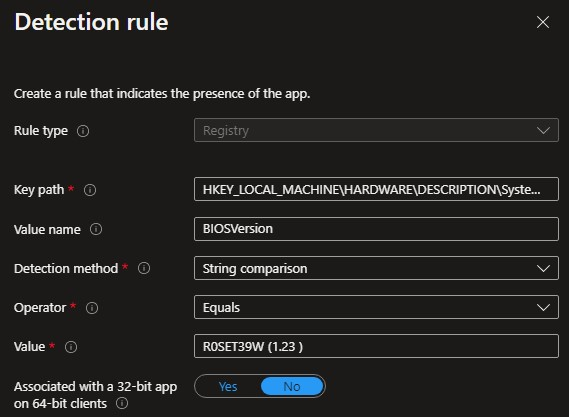
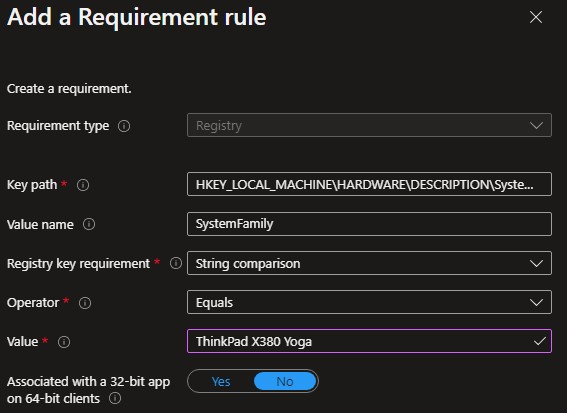
Add additional screenshot

diff --git a/docs/2019/intune_bios_deploy.md b/docs/2019/intune_bios_deploy.md
@@ -38,6 +38,27 @@ For **Requirements**, set:
 - Operating system architecture - **32-bit/64-bit**
 - Minimum operating system - **Windows 10 1607**
 
+Take it a bit further and configure an additional requirement rule to serve as a model check.
+
+**Key path**
+```cmd
+HKEY_LOCAL_MACHINE\HARDWARE\DESCRIPTION\System\BIOS
+```
+
+**Value name**
+```cmd
+SystemFamily
+```
+
+**Value**
+```cmd
+ThinkPad X380 Yoga
+```
+
+![](../img/2019/intune_bios_deploy//image4.jpg)
+
+
+
 **Detection Rules** can be handled several different ways. In this example, I'm choosing to look at the **BIOSVersion** value in the registry. The value in the screenshot below is after installing the latest BIOS update for my test system. This is what will be evaluated at the time of install, so if the client has an older BIOS installed, it should evaluate as **False** and proceed with the install.
 
 ?> This detection method assumes a newer BIOS version is being deployed to a system with an older version. If you're attempting to deploy an older BIOS version, the rule will still evaluate as false and attempt to install the older version. If for some reason you're deploying an older BIOS version, make sure the **Secure Rollback Prevention** BIOS setting is disabled.)
